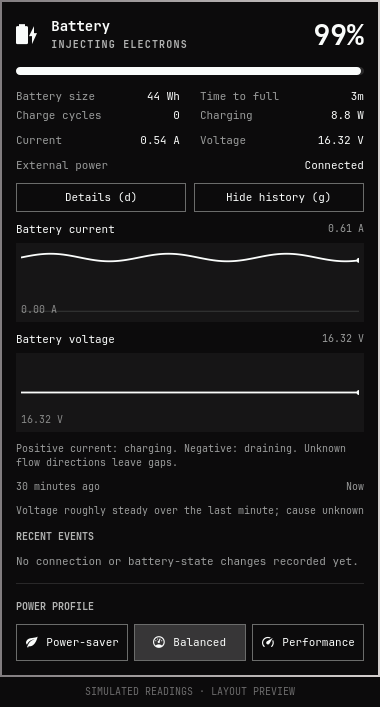
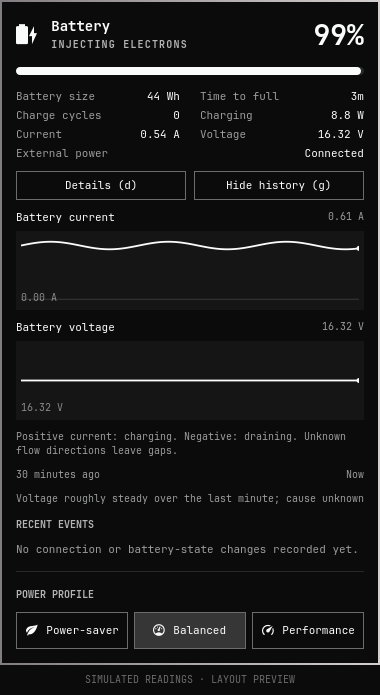
Match stock spacing across battery reading rows

diff --git a/BatteryDetails.qml b/BatteryDetails.qml
@@ -38,73 +38,77 @@ Column {
     }
   }
 
-  // Stock two-column battery stats, followed by the extra sensor readings.
-  Row {
-    width: parent.width
-    spacing: Style.space(20)
-    Column {
-      width: (parent.width - parent.spacing) / 2
-      spacing: Style.spacing.labelGap
-      InfoPair { label: "Battery size"; value: Diagnostics.metric(root.battery.fullWh, "Wh", 0) }
-      InfoPair { label: "Charge cycles"; value: Diagnostics.known(root.battery.cycles) ? String(root.battery.cycles) : "—" }
-    }
-    Column {
-      width: (parent.width - parent.spacing) / 2
-      spacing: Style.spacing.labelGap
-      InfoPair {
-        label: root.reading.code === "limit" ? "Charge limit" : root.reading.code === "discharging" ? "Time left" : "Time to full"
-        value: root.reading.code === "limit" ? root.battery.limitPercent + "%"
-          : !root.fresh ? "Unavailable"
-          : root.reading.code === "discharging" ? Diagnostics.duration(root.battery.timeToEmptyS)
-          : ["charging", "slow"].indexOf(root.reading.code) !== -1 ? Diagnostics.duration(root.battery.timeToFullS) : "—"
-      }
-      InfoPair {
-        label: root.reading.code === "discharging" ? "Discharging" : ["charging", "slow"].indexOf(root.reading.code) !== -1 ? "Charging" : "Power"
-        value: Diagnostics.metric(root.fresh ? root.reading.powerW : null, "W", 1)
-      }
-    }
-  }
-
-  Row {
-    width: parent.width
-    spacing: Style.space(20)
-    Column {
-      width: (parent.width - parent.spacing) / 2
-      InfoPair { label: "Current" + (root.battery.currentEstimated ? " ≈" : ""); value: Diagnostics.amps(root.fresh ? root.reading.currentA : null) }
-    }
-    Column {
-      width: (parent.width - parent.spacing) / 2
-      InfoPair { label: "Voltage"; value: Diagnostics.metric(root.fresh ? root.reading.voltageV : null, "V") }
-    }
-  }
-  Detail {
-    label: "External power"
-    value: !root.fresh ? "Unavailable" : root.snapshot.acOnline === true ? "Connected" : root.snapshot.acOnline === false ? "Disconnected" : "Unknown"
-  }
-  Text {
-    visible: root.reading.unstable === true
-    width: parent.width
-    text: "Power connection unstable"
-    wrapMode: Text.WordWrap
-    color: root.foreground
-    font.family: root.fontFamily
-    font.pixelSize: Style.font.bodySmall
-  }
-  Detail {
-    visible: root.reading.code !== "limit" && (root.detailsOpen || Diagnostics.known(root.battery.limitPercent) && root.battery.limitPercent < 100)
-    label: "Charge limit"
-    value: !Diagnostics.known(root.battery.limitPercent) ? "Unavailable"
-      : root.battery.limitPercent === 100 ? "100% · No reduced limit"
-      : root.battery.limitPercent + "%"
-  }
   Column {
-    visible: root.detailsOpen
     width: parent.width
-    spacing: root.spacing
-    Detail { label: "State observed for"; value: root.fresh ? Diagnostics.duration(root.now - root.reading.since) : "Unavailable" }
-    Detail { label: "Battery health"; value: Diagnostics.metric(root.battery.healthPercent, "%", 0) }
-    Detail { label: "Design capacity"; value: Diagnostics.metric(root.battery.designWh, "Wh", 1) }
-    Detail { label: "Temperature"; value: Diagnostics.metric(root.battery.temperatureC, "°C", 1) }
+    spacing: Style.spacing.labelGap
+    // Stock two-column battery stats, followed by the extra sensor readings.
+    Row {
+      width: parent.width
+      spacing: Style.space(20)
+      Column {
+        width: (parent.width - parent.spacing) / 2
+        spacing: Style.spacing.labelGap
+        InfoPair { label: "Battery size"; value: Diagnostics.metric(root.battery.fullWh, "Wh", 0) }
+        InfoPair { label: "Charge cycles"; value: Diagnostics.known(root.battery.cycles) ? String(root.battery.cycles) : "—" }
+      }
+      Column {
+        width: (parent.width - parent.spacing) / 2
+        spacing: Style.spacing.labelGap
+        InfoPair {
+          label: root.reading.code === "limit" ? "Charge limit" : root.reading.code === "discharging" ? "Time left" : "Time to full"
+          value: root.reading.code === "limit" ? root.battery.limitPercent + "%"
+            : !root.fresh ? "Unavailable"
+            : root.reading.code === "discharging" ? Diagnostics.duration(root.battery.timeToEmptyS)
+            : ["charging", "slow"].indexOf(root.reading.code) !== -1 ? Diagnostics.duration(root.battery.timeToFullS) : "—"
+        }
+        InfoPair {
+          label: root.reading.code === "discharging" ? "Discharging" : ["charging", "slow"].indexOf(root.reading.code) !== -1 ? "Charging" : "Power"
+          value: Diagnostics.metric(root.fresh ? root.reading.powerW : null, "W", 1)
+        }
+      }
+    }
+
+    Row {
+      width: parent.width
+      spacing: Style.space(20)
+      Column {
+        width: (parent.width - parent.spacing) / 2
+        InfoPair { label: "Current" + (root.battery.currentEstimated ? " ≈" : ""); value: Diagnostics.amps(root.fresh ? root.reading.currentA : null) }
+      }
+      Column {
+        width: (parent.width - parent.spacing) / 2
+        InfoPair { label: "Voltage"; value: Diagnostics.metric(root.fresh ? root.reading.voltageV : null, "V") }
+      }
+    }
+    Detail {
+      label: "External power"
+      value: !root.fresh ? "Unavailable" : root.snapshot.acOnline === true ? "Connected" : root.snapshot.acOnline === false ? "Disconnected" : "Unknown"
+    }
+    Text {
+      visible: root.reading.unstable === true
+      width: parent.width
+      text: "Power connection unstable"
+      wrapMode: Text.WordWrap
+      color: root.foreground
+      font.family: root.fontFamily
+      font.pixelSize: Style.font.bodySmall
+    }
+    Detail {
+      visible: root.reading.code !== "limit" && (root.detailsOpen || Diagnostics.known(root.battery.limitPercent) && root.battery.limitPercent < 100)
+      label: "Charge limit"
+      value: !Diagnostics.known(root.battery.limitPercent) ? "Unavailable"
+        : root.battery.limitPercent === 100 ? "100% · No reduced limit"
+        : root.battery.limitPercent + "%"
+    }
+    Column {
+      visible: root.detailsOpen
+      width: parent.width
+      spacing: Style.spacing.labelGap
+      Detail { label: "State observed for"; value: root.fresh ? Diagnostics.duration(root.now - root.reading.since) : "Unavailable" }
+      Detail { label: "Battery health"; value: Diagnostics.metric(root.battery.healthPercent, "%", 0) }
+      Detail { label: "Design capacity"; value: Diagnostics.metric(root.battery.designWh, "Wh", 1) }
+      Detail { label: "Temperature"; value: Diagnostics.metric(root.battery.temperatureC, "°C", 1) }
+    }
   }
 
   Row {
